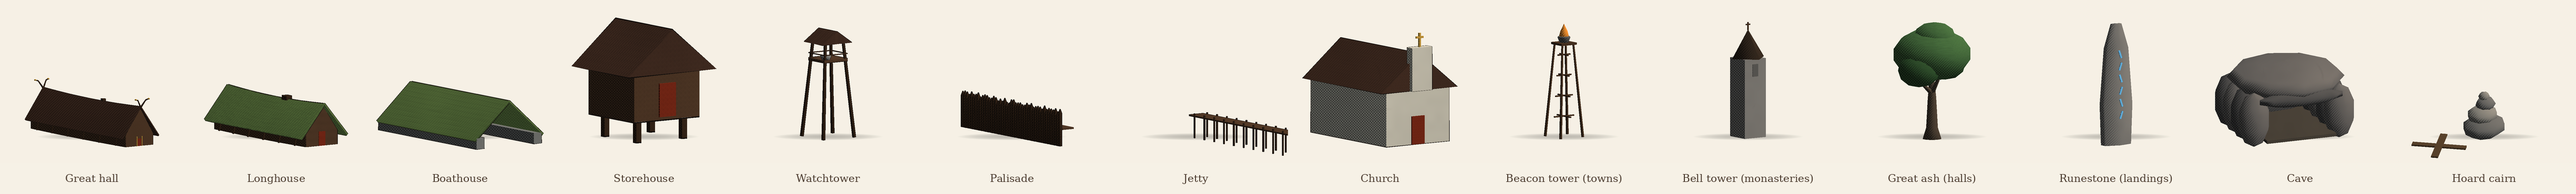
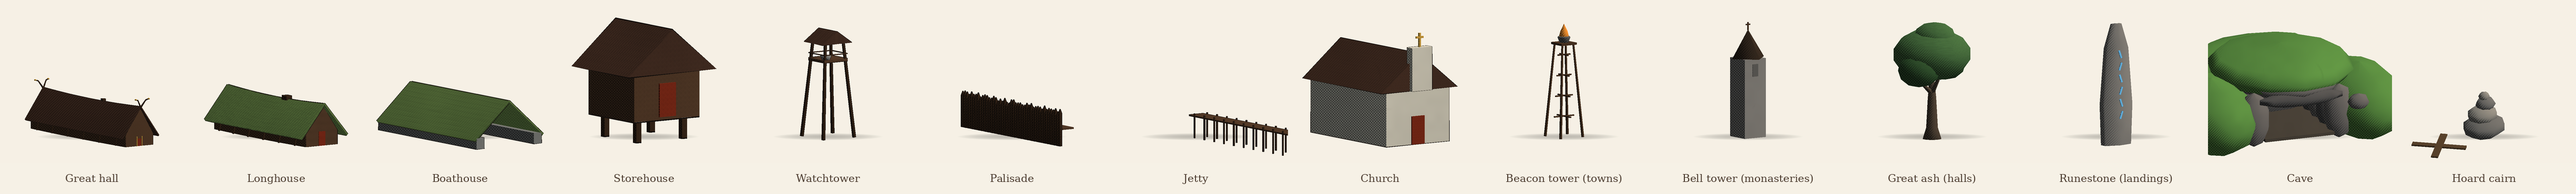
Caves: a mouth in a turfed knoll with a bare rock floor, and a preview shot of one (docs/scene-cave.png)
The shot draws the land as the game does (25 m squares, refined round the
chamber) to check the cave really shows.

Claude-Session: https://claude.ai/code/session_01SCdejJ1UF8RUxAkkFhZXGU

Changed region(s): [[0.8431, 0.1486, 0.9367, 0.8027]]

diff --git a/tools/preview/HeroPreview.cs b/tools/preview/HeroPreview.cs
@@ -604,6 +604,65 @@ public static class HeroPreview
             }
         Render(helm, w, h, 0, w, h, new Shot { model = m, pose = pose, perspective = true, eye = helmEye, yaw = jetty.yaw, pitch = 6f, fov = 75f });
         WriteRgba(rgbaPath + ".helm", helm, w, h);
+
+        // A cave (the first place, Bergen first, whose hills have one), with the land drawn as the game draws it
+        // (its 25 m squares, refined round the chamber), seen from a few steps in front of the mouth.
+        Vector3 caveAt = Vector3.zero; float caveYaw = 0f;
+        Place cavePlace = null;
+        var candidates = new List<Place>();
+        var bergenPlace = Places.Find("Bergen");
+        if (bergenPlace != null) candidates.Add(bergenPlace);
+        candidates.AddRange(Places.All);
+        foreach (var cand in candidates)
+        {
+            var cplots = Settlements.Layout(map, cand);
+            if (cplots.Count > 0 && Caves.Spot(cand, cplots, groundAt, out caveAt, out caveYaw)) { cavePlace = cand; break; }
+        }
+        if (cavePlace == null) { Console.WriteLine("no cave anywhere"); return; }
+        Console.WriteLine("cave at " + cavePlace.name);
+        Caves.Hollows.Clear();
+        Caves.Hollows.Add(new Vector4(caveAt.x, caveYaw, caveAt.z, caveAt.y));
+        var cm = new VikingModel();
+        cm.AddJoint(J, null, Vector3.zero);
+        float cstep = WorldTerrain.ChunkSize / WorldTerrain.ChunkQuads;
+        double gx0 = Math.Floor((caveAt.x - 150f) / cstep) * cstep, gz0 = Math.Floor((caveAt.z - 150f) / cstep) * cstep;
+        int cq = Mathf.CeilToInt(300f / cstep) + 1;
+        var cpatch = TerrainPatch.Build(map, gx0, gz0, cq * cstep, cq);
+        var corner = new Vector3((float)(gx0 - caveAt.x), 0f, (float)(gz0 - caveAt.z));
+        for (int k = 0; k < cpatch.Triangles.Length; k++)
+        {
+            if (k == (int)Ground.Seabed) continue;
+            var md = new MeshData();
+            foreach (int idx in cpatch.Triangles[k]) { md.Triangles.Add(md.Vertices.Count); md.Vertices.Add(cpatch.Vertices[idx] + corner); }
+            cm.Add(J, TerrainPatch.ColourOf((Ground)k), md, false, SurfaceKind.Plain);
+        }
+        var caveTurn = Quaternion.Euler(0f, caveYaw, 0f);
+        var mouth = new Vector3(0f, caveAt.y - 0.2f, 0f);
+        foreach (var piece in Caves.Model().Pieces)
+            cm.Pieces.Add(new VikingModel.Piece { joint = J, color = piece.color, mesh = piece.mesh.Transformed(mouth, caveTurn, Vector3.one), surface = piece.surface, outline = piece.outline, ink = piece.ink });
+        var draugr = Full(NpcHeroes.Draugr(cavePlace.name.GetHashCode()));
+        var guardAt = mouth + caveTurn * new Vector3(0.8f, 0.5f, -2f);
+        var guardStill = new Pose();
+        foreach (var piece in draugr.Pieces)
+        {
+            if (!Visible(new Shot { model = draugr, pose = guardStill }, piece.joint)) continue;
+            Vector3 jp; Quaternion jr;
+            World(draugr, guardStill, piece.joint, out jp, out jr);
+            cm.Pieces.Add(new VikingModel.Piece { joint = J, color = piece.color, mesh = piece.mesh.Transformed(jp, jr, Vector3.one).Transformed(guardAt, caveTurn, Vector3.one), surface = piece.surface, outline = piece.outline, ink = piece.ink });
+        }
+        var cave = new float[w * h * 3];
+        for (int y = 0; y < h; y++)
+            for (int x = 0; x < w; x++)
+            {
+                float k = y / (float)h;
+                int i = (y * w + x) * 3;
+                cave[i] = Mathf.Lerp(0.62f, 0.9f, k); cave[i + 1] = Mathf.Lerp(0.74f, 0.9f, k); cave[i + 2] = Mathf.Lerp(0.86f, 0.88f, k);
+            }
+        var caveEye = mouth + caveTurn * new Vector3(1.5f, 1.8f, 11f);
+        Render(cave, w, h, 0, w, h, new Shot { model = cm, pose = pose, perspective = true, eye = caveEye, yaw = caveYaw + 186f, pitch = 8f, fov = 70f });
+        WriteRgba(rgbaPath + ".cave", cave, w, h);
+        Console.WriteLine("cave at " + caveAt + " facing " + caveYaw);
+        Caves.Hollows.Clear();
     }
 
     static void WriteRgba(string path, float[] img, int w, int h)

diff --git a/OdinsCoin/Assets/Scripts/World/WorldTerrain.cs b/OdinsCoin/Assets/Scripts/World/WorldTerrain.cs
@@ -59,12 +59,13 @@ namespace OdinsCoin
         }
 
         /// <summary>One triangle (patch-local x/z, heights in y), filed under its kind of ground.</summary>
-        void Add(Vector3 a, Vector3 b, Vector3 c, float step, float sink)
+        void Add(Vector3 a, Vector3 b, Vector3 c, float step, float sink, bool dug = false)
         {
             float s = WorldMap.Scale;
             float mean = (a.y + b.y + c.y) / 3f;
             float slope = (Mathf.Max(a.y, Mathf.Max(b.y, c.y)) - Mathf.Min(a.y, Mathf.Min(b.y, c.y))) / step;
-            var kind = TerrainDetail.Kind(mean / s, slope);
+            // Ground dug out for a cave is bare rock.
+            var kind = dug ? Ground.Rock : TerrainDetail.Kind(mean / s, slope);
             var list = Triangles[(int)kind];
             foreach (var v in new[] { a, b, c })
             {
@@ -88,6 +89,7 @@ namespace OdinsCoin
             int n = Mathf.Max(1, Mathf.CeilToInt(step / FineStep));
             float fine = step / n, blend = 4f;
             var g = new float[n + 1, n + 1];
+            var dug = new bool[n + 1, n + 1];
             for (int b = 0; b <= n; b++)
                 for (int a = 0; a <= n; a++)
                 {
@@ -97,6 +99,7 @@ namespace OdinsCoin
                     float edge = Mathf.Min(Mathf.Min(a, n - a), Mathf.Min(b, n - b)) * fine;
                     float y = Mathf.Lerp(coarse, TerrainDetail.HeightUncarved(map, x, z), Mathf.Clamp01(edge / blend));
                     g[a, b] = Caves.Hollow(x, z, y);
+                    dug[a, b] = g[a, b] < y - 0.01f;
                 }
             for (int b = 0; b < n; b++)
                 for (int a = 0; a < n; a++)
@@ -106,8 +109,8 @@ namespace OdinsCoin
                     var p01 = new Vector3(xa, g[a, b + 1], za + fine);
                     var p11 = new Vector3(xa + fine, g[a + 1, b + 1], za + fine);
                     var p10 = new Vector3(xa + fine, g[a + 1, b], za);
-                    Add(p00, p01, p11, fine, sink);
-                    Add(p00, p11, p10, fine, sink);
+                    Add(p00, p01, p11, fine, sink, dug[a, b] && dug[a, b + 1] && dug[a + 1, b + 1]);
+                    Add(p00, p11, p10, fine, sink, dug[a, b] && dug[a + 1, b + 1] && dug[a + 1, b]);
                 }
         }
 

diff --git a/OdinsCoin/Assets/Scripts/World/Caves.cs b/OdinsCoin/Assets/Scripts/World/Caves.cs
@@ -81,7 +81,7 @@ namespace OdinsCoin
         public static VikingModel Model()
         {
             var m = new MergedModel();
-            m.Put(Floor, SurfaceKind.Plain, MeshData.Box(new Vector3(0f, -0.1f, -Depth / 2f), new Vector3(HalfWidth * 2f + 1f, 0.3f, Depth + 1f)));
+            m.Put(Floor, SurfaceKind.Plain, MeshData.Box(new Vector3(0f, -0.1f, -Depth / 2f - 0.25f), new Vector3(HalfWidth * 2f + 1f, 0.3f, Depth + 0.5f)));
             for (int i = 0; i < 4; i++)
             {
                 float z = -1f - i * 2.2f;
@@ -92,6 +92,15 @@ namespace OdinsCoin
             m.Put(RockA, SurfaceKind.Plain, MeshData.Ellipsoid(new Vector3(0f, Height + 1.2f, -Depth / 2f), new Vector3(HalfWidth + 2.6f, 1.6f, Depth / 2f + 1.6f), 10, 6));
             // A lintel of stone over the mouth.
             m.Put(RockB, SurfaceKind.Plain, MeshData.Ellipsoid(new Vector3(0f, Height + 0.3f, 0.3f), new Vector3(HalfWidth + 1.4f, 0.8f, 0.9f), 8, 5));
+            // Turf heaped over and round it, so it's a mouth in a knoll, not a heap of stones on the grass: a cap over
+            // the roof, a shoulder either side of the mouth and a hump behind, all clear of the way in.
+            m.Put(Materials.Grass, SurfaceKind.Plain, MeshData.Ellipsoid(new Vector3(0f, Height + 1.9f, -Depth / 2f - 1.5f), new Vector3(HalfWidth + 4f, 2.2f, Depth / 2f + 3.5f), 12, 6));
+            foreach (float side in new[] { -1f, 1f })
+                m.Put(Materials.Grass, SurfaceKind.Plain, MeshData.Ellipsoid(new Vector3(side * (HalfWidth + 4.5f), Height * 0.5f, -Depth / 2f), new Vector3(4f, Height * 1.0f, Depth / 2f + 3f), 10, 6));
+            m.Put(Materials.Grass, SurfaceKind.Plain, MeshData.Ellipsoid(new Vector3(0f, Height * 0.5f, -Depth - 4.5f), new Vector3(HalfWidth + 6f, Height * 1.3f, 4f), 10, 6));
+            // A few rocks breaking through the turf.
+            m.Put(RockA, SurfaceKind.Plain, MeshData.Ellipsoid(new Vector3(-HalfWidth - 2.5f, Height * 0.9f, 1.2f), new Vector3(1.1f, 0.8f, 0.9f), 7, 4));
+            m.Put(RockB, SurfaceKind.Plain, MeshData.Ellipsoid(new Vector3(HalfWidth + 3.2f, Height * 0.7f, 0.8f), new Vector3(0.9f, 0.7f, 0.8f), 7, 4));
             return m.ToModel("Cave");
         }
 
